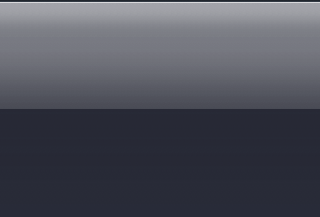
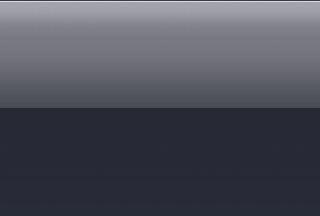
Fixing a bunch of pixel alignment issues.

Changed region(s): [[0.0, 0.0, 1.0, 0.0278]]

diff --git a/Geoloqi/LQShareTwitterViewController.m b/Geoloqi/LQShareTwitterViewController.m
@@ -8,7 +8,8 @@
 
 #import "LQShareTwitterViewController.h"
 #import "BlueButton.h"
-
+#import "SHKActivityIndicator.h"
+#import "CJSONDeserializer.h"
 
 
 @implementation LQShareTwitterViewController
@@ -136,7 +137,25 @@
 
 		self.activityIndicator.alpha = 0.0f;
 
+		NSError *err = nil;
+		NSDictionary *res = [[CJSONDeserializer deserializer] deserializeAsDictionary:[responseBody dataUsingEncoding:
+																					   NSUTF8StringEncoding]
+																				error:&err];
 		
+		NSString *msg;
+		
+		if (!res || [res objectForKey:@"error"] != nil) {
+			if([res objectForKey:@"error"] != nil){
+				msg = [res objectForKey:@"error"];
+			}else{
+				msg = @"Unknown Twitter Error!";
+			}
+		}else{
+			msg = @"Tweeted!";
+		}
+
+		[[SHKActivityIndicator currentIndicator] displayCompleted:msg];
+
 		[self.delegate twitterDidFinish];
 	} copy];
 }

diff --git a/Geoloqi/Resources/CustomUISwitch.m b/Geoloqi/Resources/CustomUISwitch.m
@@ -11,7 +11,7 @@
 #define SWITCH_WIDTH				150.0
 #define SWITCH_HEIGHT				28.0
 
-#define RECT_FOR_OFF		CGRectMake(-56.0, 0.0, SWITCH_WIDTH, SWITCH_HEIGHT)
+#define RECT_FOR_OFF		CGRectMake(-54.0, 0.0, SWITCH_WIDTH, SWITCH_HEIGHT)
 #define RECT_FOR_ON			CGRectMake(0.0, 0.0, SWITCH_WIDTH, SWITCH_HEIGHT)
 #define RECT_FOR_HALFWAY	CGRectMake(-28, 0.0, SWITCH_WIDTH, SWITCH_HEIGHT)
 

diff --git a/Geoloqi/LQMapViewController.m b/Geoloqi/LQMapViewController.m
@@ -53,7 +53,7 @@
 	}
 
 	[self.view addSubview:self.controlBanner];
-	[self.controlBanner setCenter:(CGPoint){160.0, 20.0}];
+	[self.controlBanner setCenter:(CGPoint){160.0, 22.0}];
 	
 	trackingToggleSwitch = [[CustomUISwitch alloc] initWithImageNamed:@"switch_dark.png"
 															 withOnImageNamed:@"switch_dark_on.png"
